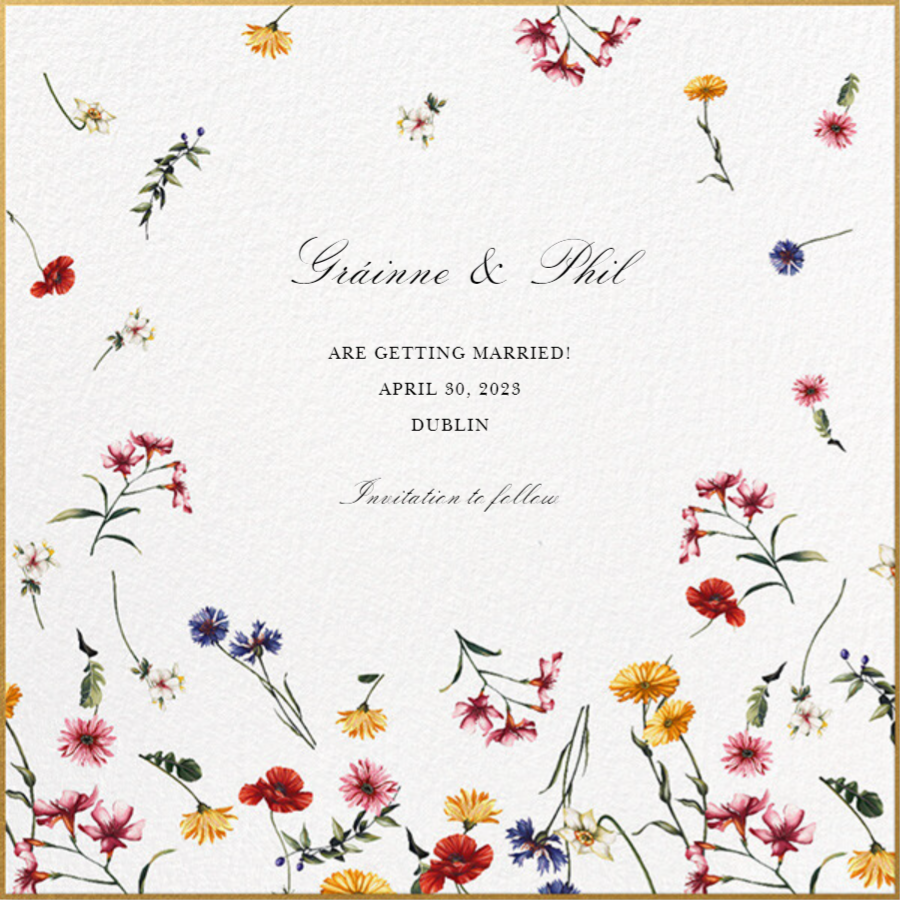
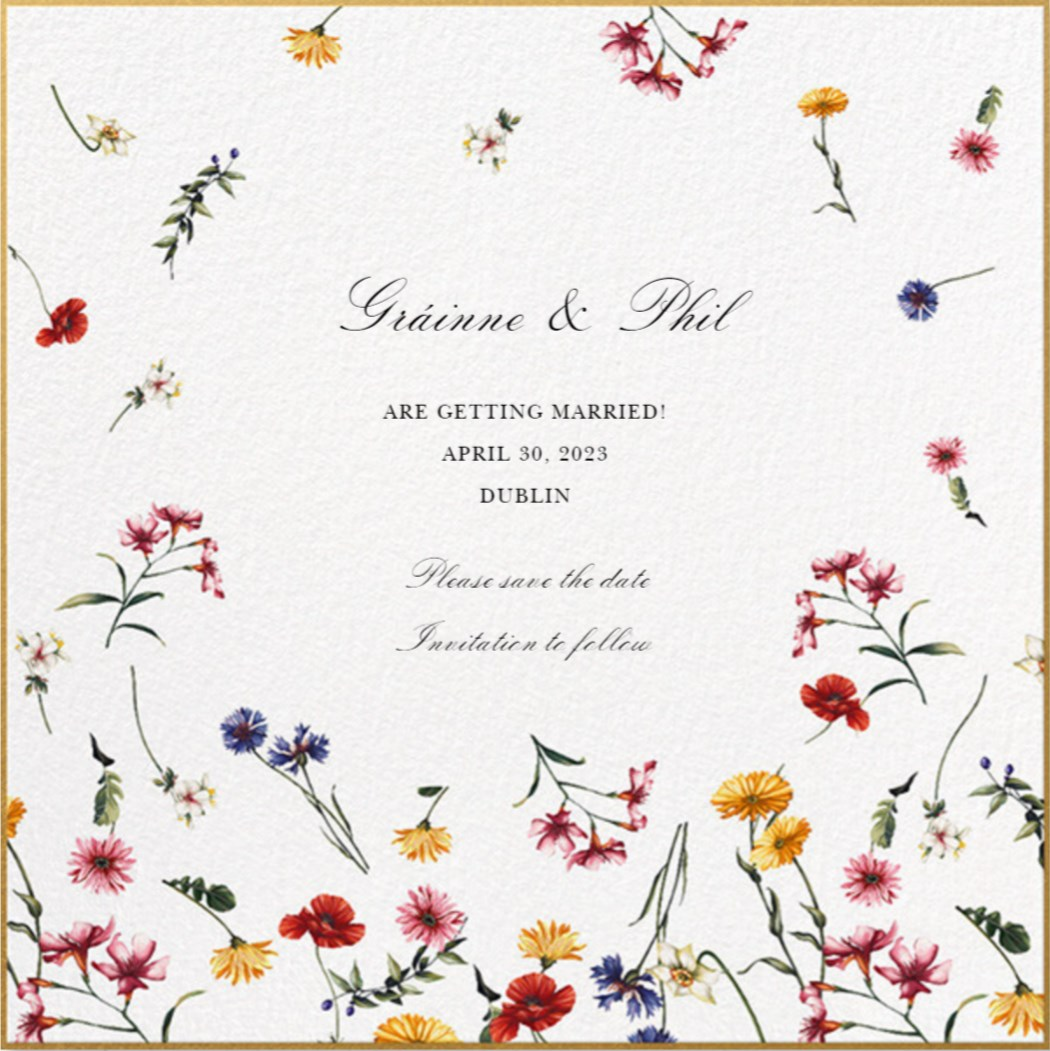
background

diff --git a/save_the_date.html b/save_the_date.html
@@ -9,23 +9,44 @@
   <link rel="icon" type="image/png" href="/assets/images/favicon-16x16.png" sizes="16x16">
   <link rel="manifest" href="/public/manifest.json">
   <link rel="mask-icon" href="/assets/images/safari-pinned-tab.svg" color="#5bbad5">
-  <link rel="stylesheet" href="https://cdn.simplecss.org/simple.min.css">
   <meta name="theme-color" content="#000000">
-  <meta property="og:url" content="http://philipcastiglione.me/grainne.html">
-  <meta property="og:title" content="Philip Castiglione">
-  <meta property="og:description" content="Home Page for the personal website of Philip Castiglione">
-  <meta property="og:site-name" content="Philip Castiglione">
-  <meta property="og:image" content="http://philipcastiglione.me/assets/images/hero.jpg">
+  <meta property="og:url" content="http://philipcastiglione.me/save_the_date.html">
+  <meta property="og:title" content="Gráinne and Phil are getting married">
+  <meta property="og:description" content="Save the date 30 April 2023 for the wedding of Gráinne and Phil">
+  <meta property="og:site-name" content="Save the date">
+  <meta property="og:image" content="http://philipcastiglione.me/public/savethedate.png">
   <style>
-    .shadowed {
-      box-shadow: rgba(255, 255, 255, 0.1) 0px 1px 1px 0px inset, rgba(50, 50, 93, 0.25) 0px 50px 100px -20px, rgba(0, 0, 0, 0.3) 0px 30px 60px -30px;
+    .reset {
+      margin: 0;
+      padding: 0;
     }
-    .centered {
-      text-align: center;
+    .card {
+      box-shadow: rgba(255, 255, 255, 0.1) 0px 1px 1px 0px inset, rgba(50, 50, 93, 0.25) 0px 50px 100px -20px, rgba(0, 0, 0, 0.3) 0px 30px 60px -30px;
+      position: relative;
+      top: 50%;
+      left: 50%;
+      margin-top: 100px;
+      transform: translate(-50%, 0%);
+    }
+    .background {
+      z-index: -1;
+      position: absolute;
+      top: 0;
+      left: 0;
+      min-height: calc(100vh - (100vh - 100%));
+      max-height: calc(100vh - (100vh - 100%));
+      width: calc(100vw - (100vw - 100%));
+      overflow: hidden;
+    }
+    @media only screen and (max-width: 768px) {
+      .card {
+        width: 80%;
+      }
     }
   </style>
 </head>
-<body class="centered">
-  <img src="public/savethedate.png" alt="Save the date" class="shadowed">
+<body class="reset">
+  <img src="public/savethedate.png" alt="Save the date" class="card">
+  <img src="public/marblebackground.jpeg" alt="Background" class="background">
 </body>
 </html>
